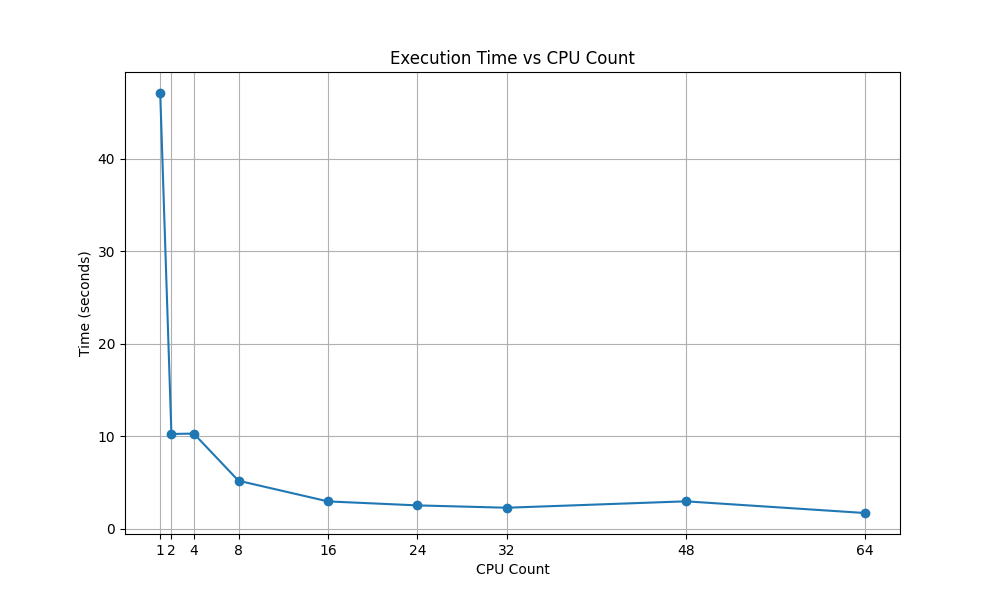
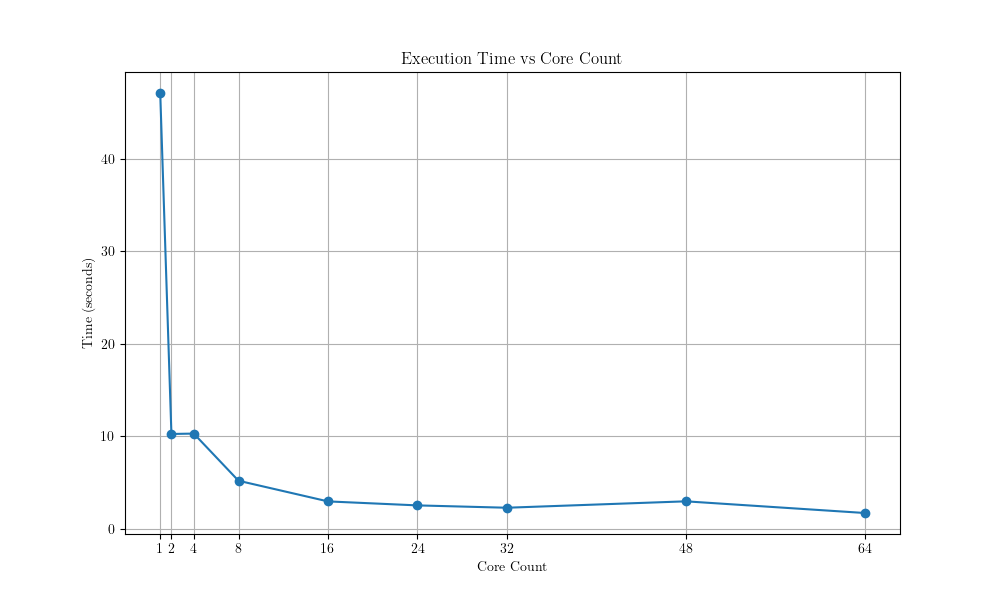
plot done for MM - report open

diff --git a/01_lab0/analysis/MM.py b/01_lab0/analysis/MM.py
@@ -45,9 +45,9 @@ y_vals = [item[1] for item in sorted_times]
 # Plot the data
 plt.figure(figsize=(10, 6))
 plt.plot(x_vals, y_vals, marker="o", linestyle="-")
-plt.xlabel("CPU Count")
+plt.xlabel("Core Count")
 plt.ylabel("Time (seconds)")
-plt.title("Execution Time vs CPU Count")
+plt.title("Execution Time vs Core Count")
 plt.grid(True)
 plt.xticks(x_vals)
 plt.savefig(f"{PLOT_PATH}MM_plot.png")
